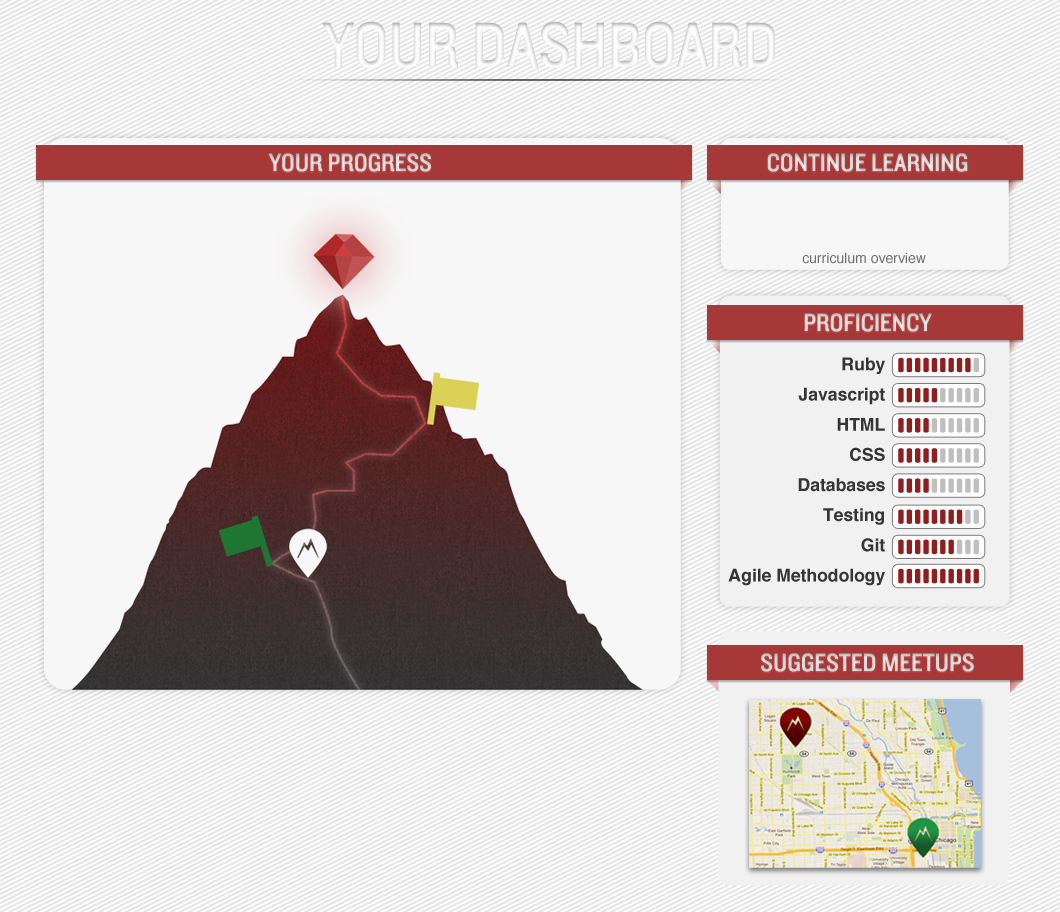
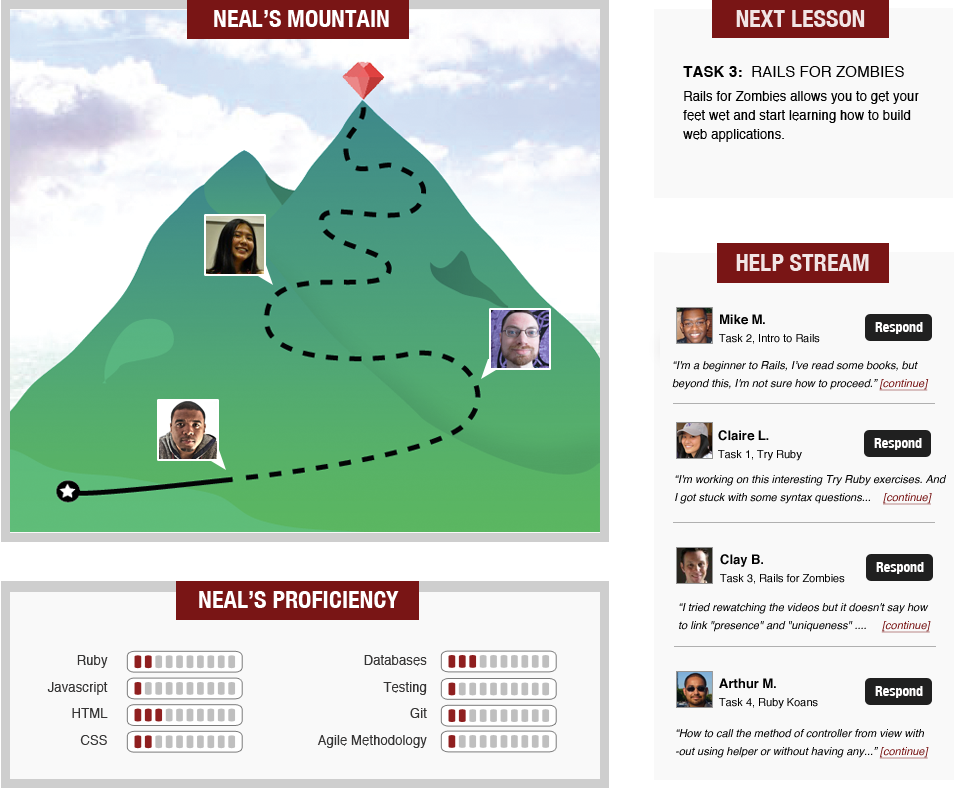
new fake dashboard

diff --git a/public/stylesheets/style.css b/public/stylesheets/style.css
@@ -218,6 +218,12 @@ logo img {
   background-color: rgb(158, 50, 50);
 }
 
+/* ======== fake dashboard ========= */
+
+#fake_dashboard {
+  margin-top: 4em;
+}
+
 /* ========= Tutorial Page ========== */
 
 body.tasks.tutorial {
@@ -283,10 +289,9 @@ body.pages.tutorial {
 }
 
 #task_1 {
-  bottom: 726px;
-  float: right;
-  left: 15px;
-  position: relative;
+  top: 215px;
+  left: 730px;
+  position: absolute;
 }
 
 /* ===== Continue Task ========== */
